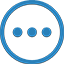
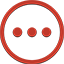
feat: Add click function to map markers

diff --git a/js/app.js b/js/app.js
@@ -25,8 +25,8 @@ var model = {
         title: 'Plaza Theatre',
         description: '',
         category: [],
-        lat: 31.7589099,
-        lng: -106.489631,
+        lat: 31.758651,
+        lng: -106.489380,
         icon: 'images/markers/star.png'
     }, {
         title: 'Winhgam Theatre',
@@ -52,7 +52,8 @@ var viewModel = function() {
 
     function initMap() {
 
-        var map;
+        var map, elem, marker, markerImg, markerLat, markerLng, title, latLng;
+        var allMarkers = [];
         //This initiates the map and map options.
         map = new google.maps.Map(document.getElementById('map'), {
             center: {
@@ -69,9 +70,7 @@ var viewModel = function() {
         });
 
         //This creates markers for each one of our model items.
-
         model.places.forEach(function(lat, index) {
-            var elem, marker,markerImg, markerLat, markerLng, title, latLng;
             elem = model.places[index];
             markerImg = elem.icon;
             markerLat = elem.lat;
@@ -80,7 +79,7 @@ var viewModel = function() {
             latLng = {
                 lat: markerLat,
                 lng: markerLng
-            }
+            };
 
             marker = new google.maps.Marker({
                 map: map,
@@ -88,10 +87,31 @@ var viewModel = function() {
                 title: title,
                 icon: markerImg
             })
-    });
-};
+            allMarkers.push(marker);
 
-initMap()
+            //This adds a click event listenere to each marker and appends the infowindow to the bottom of the page.
+            marker.addListener('click', function() {
+                map.setCenter(this.position);
+                setTimeout(function() {
+                    map.panBy(0, 225);
+                }, 1);
+                map.setZoom(19);
+            })
+            
+
+        });
+
+
+        //This adds a click event listenere to each marker and appends the infowindow to the bottom of the page.
+
+
+
+
+    };
+    // This iterates through our model and creates list items that show the info on each of our locations
+
+
+    initMap()
 };
 
 

diff --git a/index.html b/index.html
@@ -41,6 +41,7 @@
             }
 
             #initial-page h1 {
+                padding:0;
                 font-family: 'Rancho', cursive;
             }
 
@@ -61,15 +62,15 @@
                     background-size: cover;
 
                 }
-                h1 {
+                #initial-page h1 {
                     font-size: 3em;
                     margin-bottom: 10%;
-                    color: #f1c40f;
+                    color: #c0392b;
                     text-shadow: 0 0 100px #bdc3c7;
                 }
                 #initial-page p {
                     font-family: 'Open Sans', sans-serif;
-                    margin-top: 75%;
+                    margin-top: 60%;
                     padding:0 2%;
                     font-size: 1em;
                     color:#fff;
@@ -78,9 +79,9 @@
                     font-family: 'Open Sans', sans-serif;
                     margin-top: 1%;
                     padding: 3% 5%;
-                    border: solid 2px #e74c3c;
+                    border: solid 2px #c0392b;
                     background: none;
-                    color: #e74c3c;
+                    color: #c0392b;
                 }
             }
         </style>
@@ -91,14 +92,16 @@
         <nav id="menu"><img src="images/menu.png" alt="Menu Icon"></nav>
     </header>
     <section id="initial-page">
-        <h1>El Paso, Tx</h1>
+        <h1>El Paso Historical <br> Neighborhood Map</h1>
         <p>El Paso, located at the western tip of Texas, is a city rich in history. El Paso was first inhabited back in 1598. It was a bussling cow-town during the Old West, and it's still a thriving city today. Let's begin an adventure through time.</p>
         <button id="explore-btn">Click to Start Exploring</button>
     </section>
     <section id="map">
     </section>
     <aside id="aside">
+        <ul data-bind=""></ul>
     </aside>
+    <div id="info-window"></div>
     <!--    Script Tags-->
         <script>
         var bodyElem = document.body,
